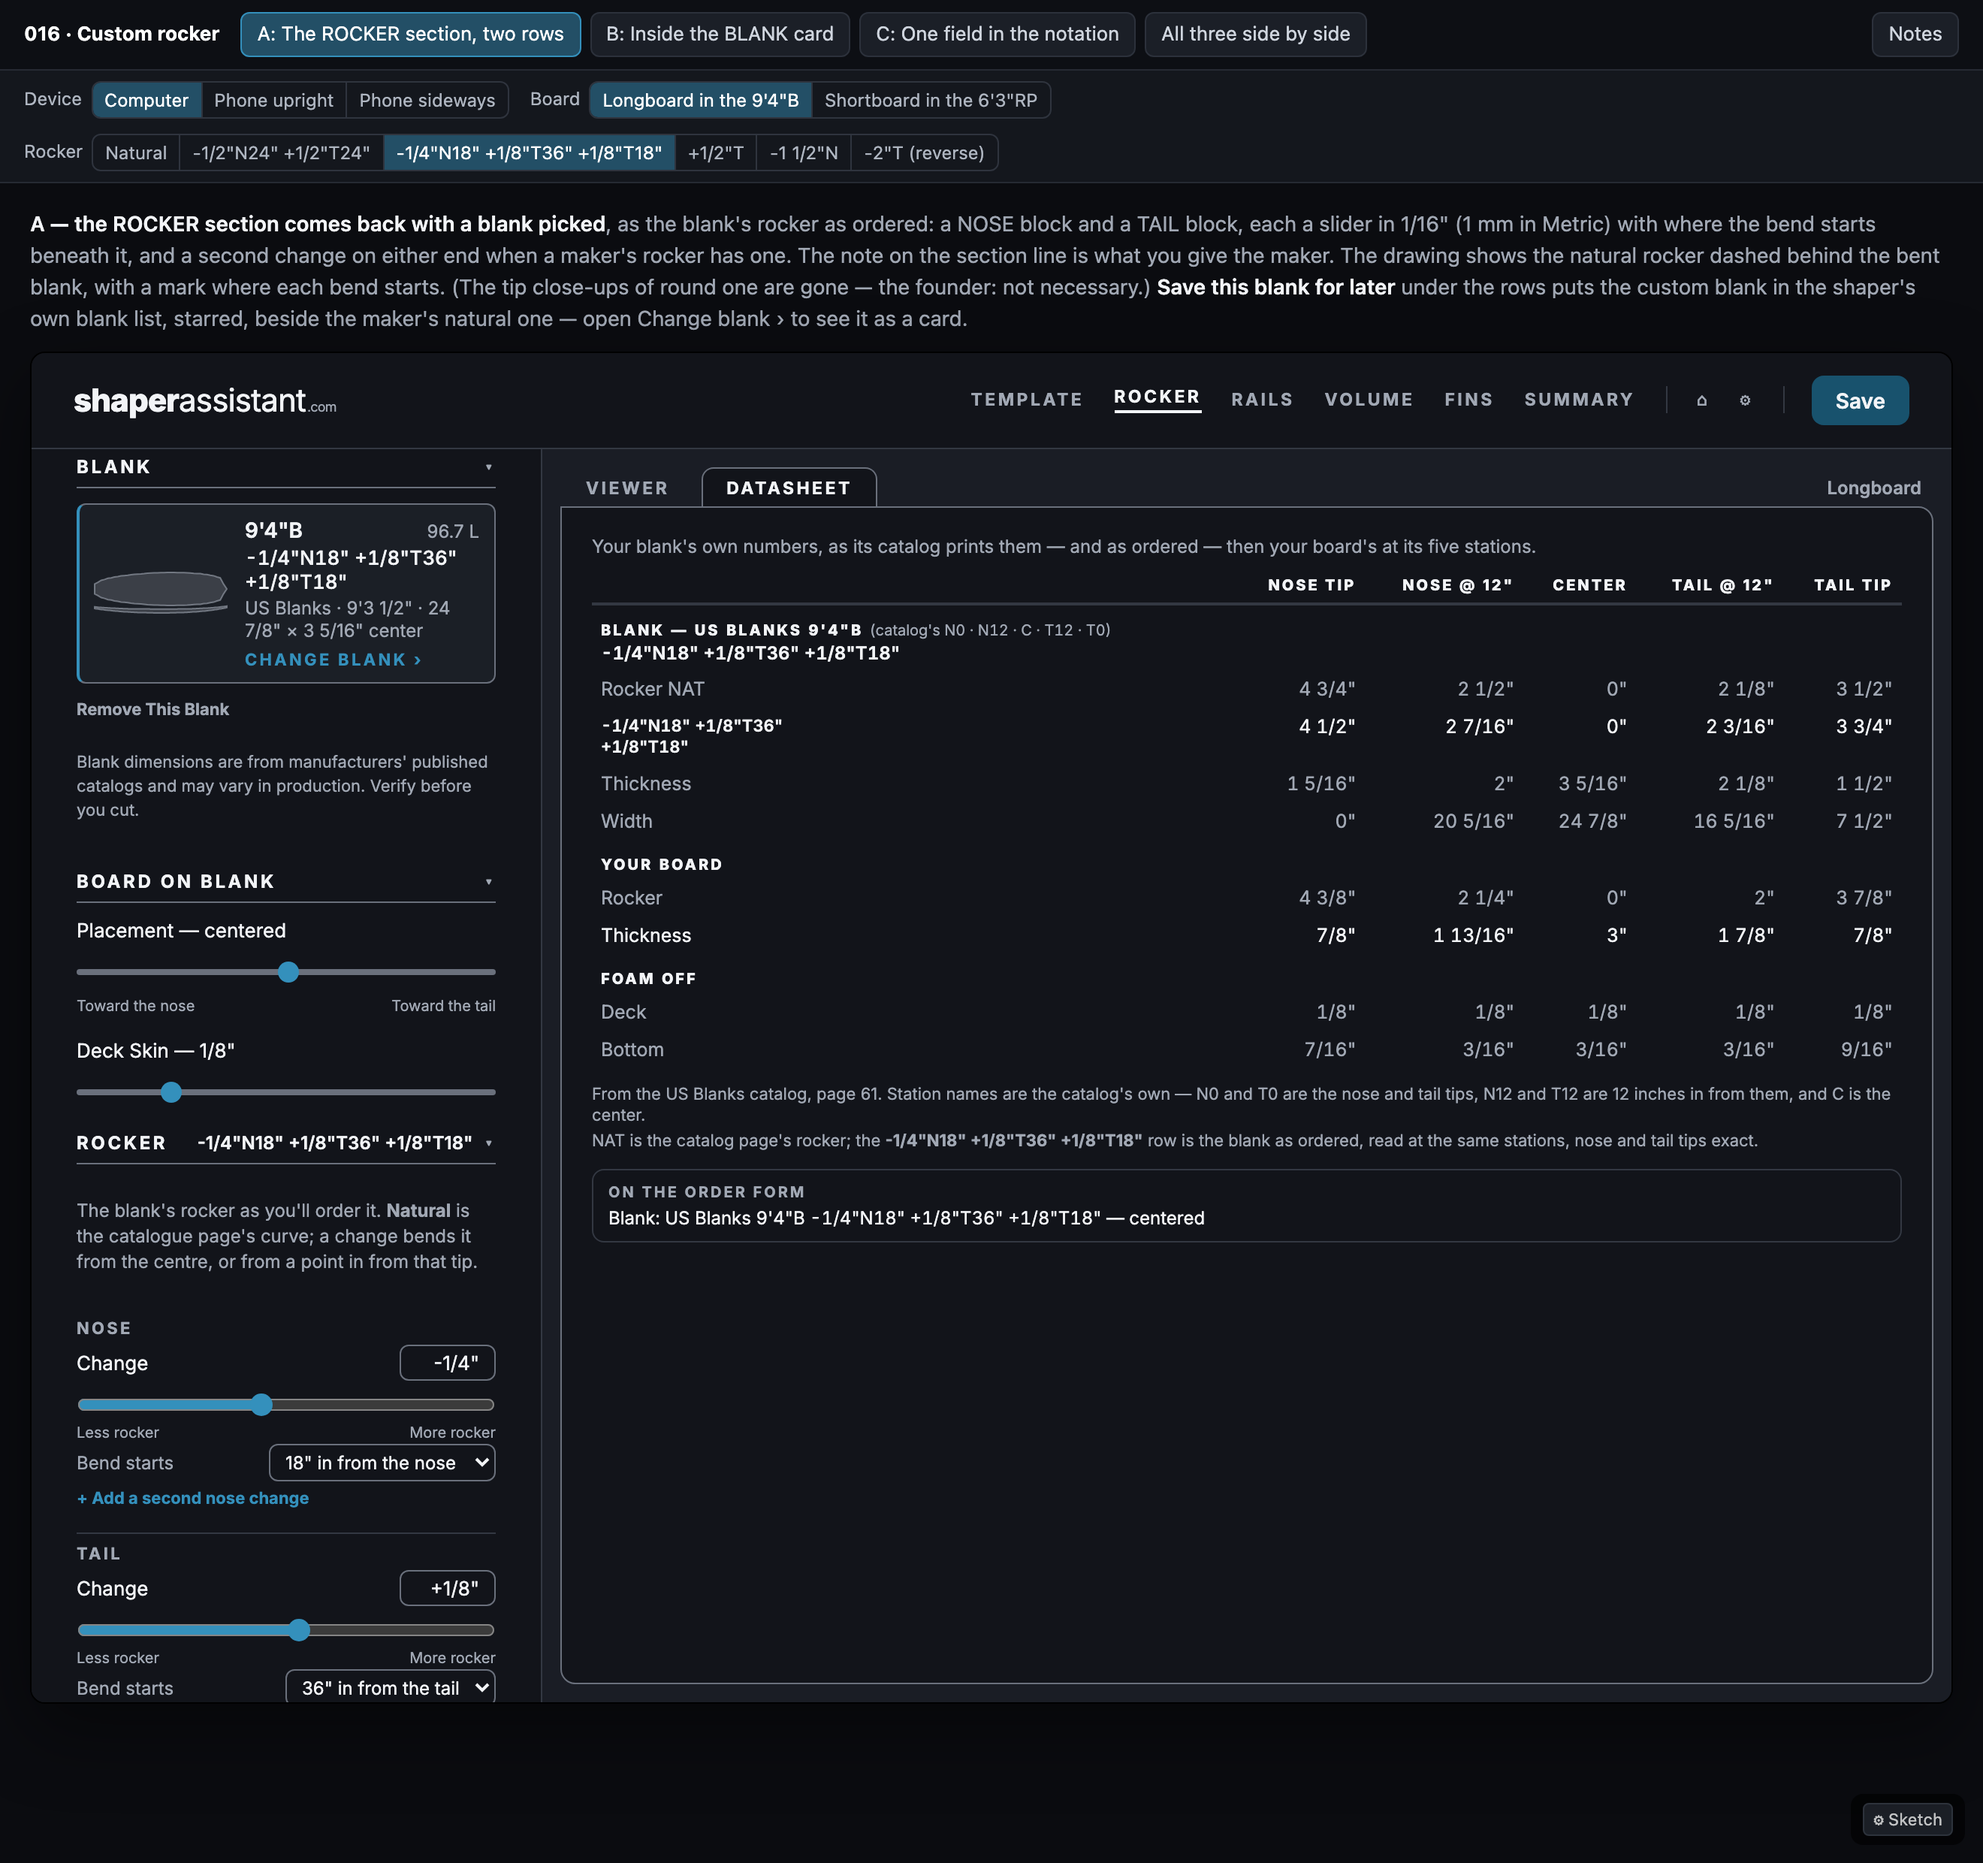
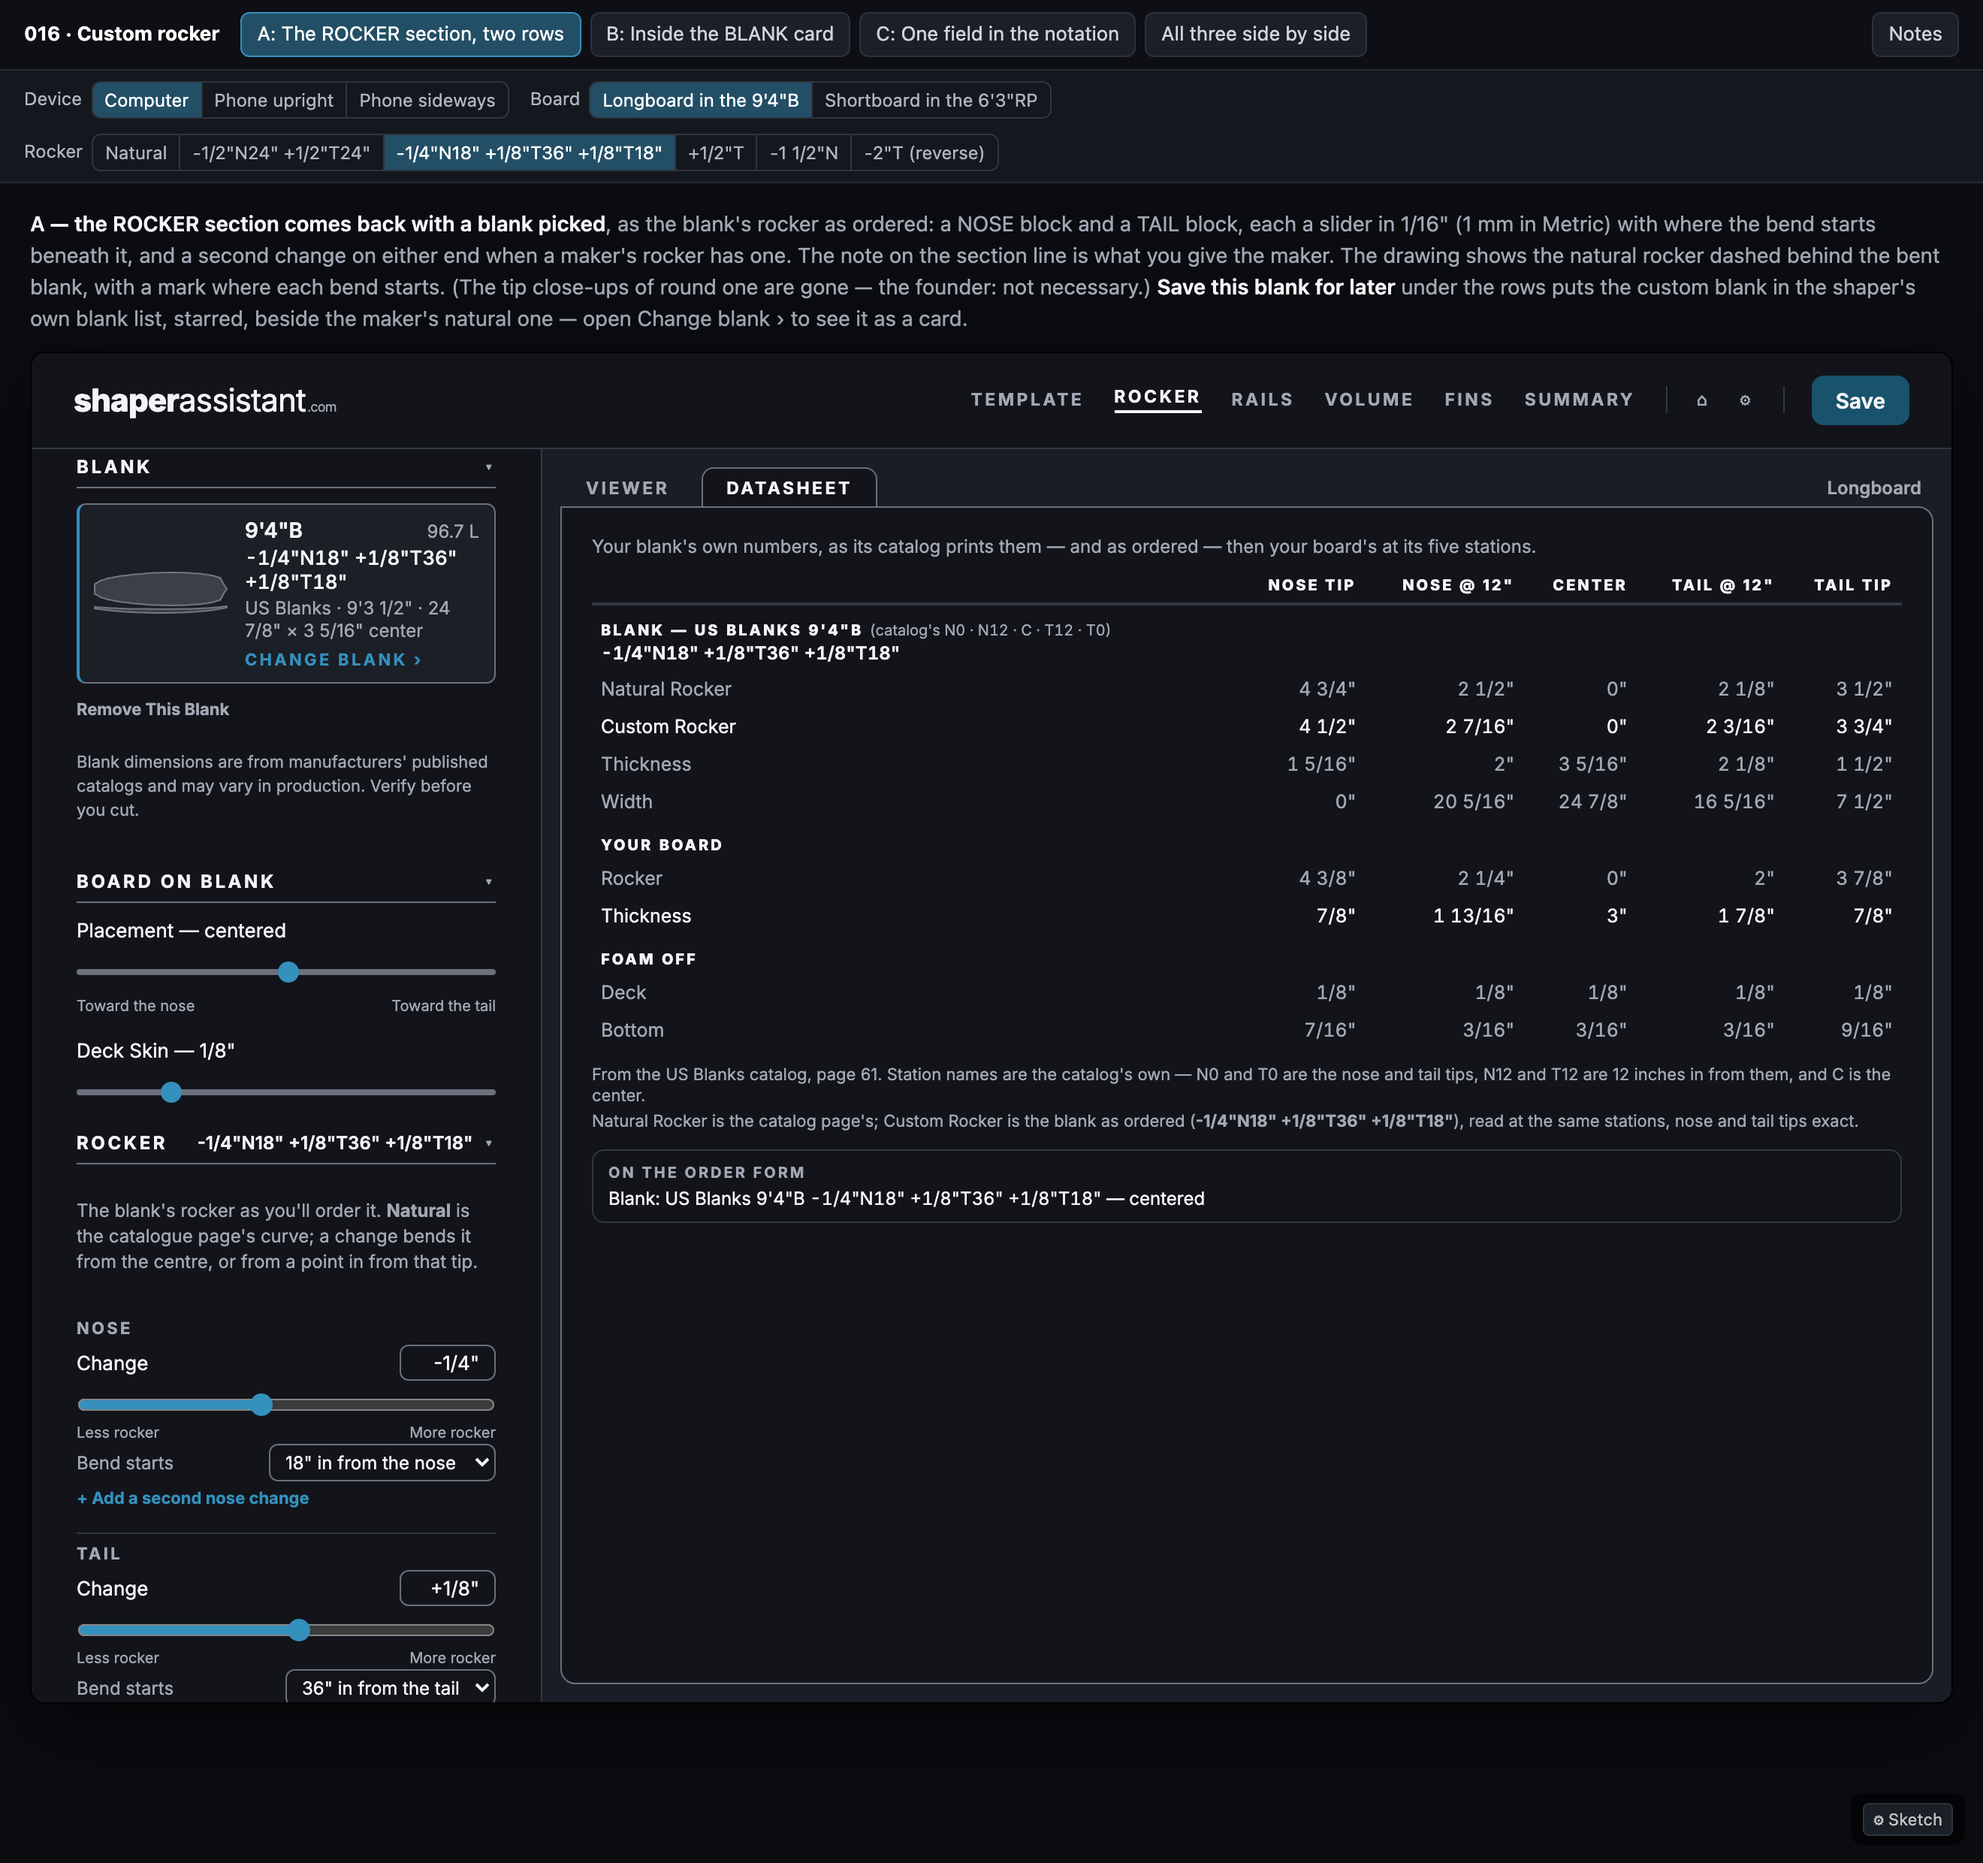
docs(sketch-016): round four — the table rows read Natural Rocker and Custom Rocker
The founder (2026-10-16): the custom row's name is Custom Rocker, and the adjustment is not
repeated in the table because it already sits on the blank's name line. Applied to the picker
cards and the DATASHEET; the plan and the manifest record it. Nothing in the app changed.

diff --git a/.planning/sketches/016-custom-rocker/index.html b/.planning/sketches/016-custom-rocker/index.html
@@ -519,8 +519,8 @@ function datasheet(device, g) {
     <table>
       <tr><th></th>${labels.map((l) => `<th>${l}</th>`).join("")}</tr>
       <tr class="grp"><td colspan="6">Blank — ${esc(b.vendor)} ${esc(b.name)} <span class="cat">(catalog's N0 · N12 · C · T12 · T0)</span><span class="rn2">${esc(note || "Natural")}</span></td></tr>
-      ${row(`Rocker NAT${unit}`, cols.map((key) => { const st = stationOf(key); return !st || st.rockerIn === null ? "—" : mark(st.rockerIn); }), false)}
-      ${custom ? row(`<span class="rnlab">${esc(note)}</span>`, cols.map((key) => { const st = stationOf(key); return !st || st.rockerIn === null ? "—" : mark(g.blankLev(st.xIn)); }), true) : ""}
+      ${row(`Natural Rocker${unit}`, cols.map((key) => { const st = stationOf(key); return !st || st.rockerIn === null ? "—" : mark(st.rockerIn); }), false)}
+      ${custom ? row(`Custom Rocker${unit}`, cols.map((key) => { const st = stationOf(key); return !st || st.rockerIn === null ? "—" : mark(g.blankLev(st.xIn)); }), true) : ""}
       ${row(`Thickness${unit}`, cols.map((k) => pr(b.printed[k].thickness, mark)), false)}
       ${row(`Width${M() ? " (cm)" : ""}`, cols.map((k) => pr(b.printed[k].width, dim)), false)}
       <tr class="grp"><td colspan="6">Your board</td></tr>
@@ -532,7 +532,7 @@ function datasheet(device, g) {
     </table>
     <div class="foot">
       <span>From the ${esc(b.vendor)} catalog, page ${esc(String(b.pdfPage || ""))}. Station names are the catalog's own — N0 and T0 are the nose and tail tips, N12 and T12 are 12 inches in from them, and C is the center.</span>
-      ${custom ? `<span>NAT is the catalog page's rocker; the <b>${esc(note)}</b> row is the blank as ordered, read at the same stations, nose and tail tips exact.${g.lowMoved ? " The low point moved, so every figure reads from the new low point." : ""}</span>` : `<span>NAT is the catalog page's natural rocker.</span>`}
+      ${custom ? `<span>Natural Rocker is the catalog page's; Custom Rocker is the blank as ordered (<b>${esc(note)}</b>), read at the same stations, nose and tail tips exact.${g.lowMoved ? " The low point moved, so every figure reads from the new low point." : ""}</span>` : `<span>Natural Rocker is the catalog page's.</span>`}
     </div>
     <div class="order"><b>On the order form</b><span>Blank: ${esc(b.vendor)} ${esc(b.name)} ${esc(note || "Natural")} — centered</span></div>
   </div>`;
@@ -581,9 +581,9 @@ function blankCard(r, opts) {
     <table class="st"><tr><th></th>${hdr.map((h) => `<th>${h}</th>`).join("")}</tr>
       <tr><td>Width</td>${cols.map((k) => `<td>${pr(b.printed[k].width, dim)}</td>`).join("")}</tr>
       <tr><td>Thick</td>${cols.map((k) => `<td>${pr(b.printed[k].thickness, mark)}</td>`).join("")}</tr>
-      <tr><td>Rocker NAT</td>${cols.map((k) => { const x = st(k); return `<td>${!x || x.rockerIn === null ? "—" : mark(x.rockerIn)}</td>`; }).join("")}</tr>
-      ${custom ? `<tr class="ord"><td><span class="rnlab">${esc(note)}</span></td>${rocker.map((c) => `<td>${c}</td>`).join("")}</tr>` : ""}</table>
-    ${custom ? `<div class="asord">The second row is the rocker as you ordered it — check it on the foam.</div>` : ""}
+      <tr><td>Natural Rocker</td>${cols.map((k) => { const x = st(k); return `<td>${!x || x.rockerIn === null ? "—" : mark(x.rockerIn)}</td>`; }).join("")}</tr>
+      ${custom ? `<tr class="ord"><td>Custom Rocker</td>${rocker.map((c) => `<td>${c}</td>`).join("")}</tr>` : ""}</table>
+    ${custom ? `<div class="asord">Custom Rocker is the blank as you ordered it — check it on the foam.</div>` : ""}
     <button class="link pickbtn" data-act="pick" data-i="${opts.i}">${opts.picked ? "Keep this blank" : "Use this blank"}</button>
   </div>`;
 }
@@ -623,7 +623,7 @@ const NOTES = `<h2>Sketch 016 — Custom rocker on ROCKER</h2>
 <ul><li>Can you set a listed rocker — say <b>-1/4"N18" +1/8"T36" +1/8"T18"</b> — in under a minute, on a phone?</li>
 <li>Does the natural dashed line read as a reference, not a second blank? Are the bend marks enough without words?</li>
 
-<li>Decided (round three): the rocker text sits on its own line under the name, <b>Natural</b> included, everywhere the blank is named; a custom blank's table shows the <b>Rocker NAT</b> row and, under it, a row labelled with the adjustment holding the ordered figures.</li></ul>
+<li>Decided (rounds three and four): the rocker text sits on its own line under the name, <b>Natural</b> included, everywhere the blank is named; a custom blank's table shows a <b>Natural Rocker</b> row and a <b>Custom Rocker</b> row — the adjustment itself is on the name line only.</li></ul>
 <h3>Saving it as a blank (the founder, 2026-10-16)</h3>
 <p>"Save this blank for later" keeps the custom rocker as a blank of the shaper's own — <b>US Blanks 9'4"B -1/4"N18" +1/8"T36" +1/8"T18"</b> — in the PICK A BLANK popup — <b>starred the moment it is saved</b>, so it sits at the top under ★ STARRED (the founder: "which should always be starred when saved") — with the natural 9'4"B still listed. Its station table reads the rocker as ordered. Signed in it is saved on the account; signed out, in this browser.</p>
 <h3>The maths</h3>

diff --git a/.planning/sketches/MANIFEST.md b/.planning/sketches/MANIFEST.md
@@ -98,7 +98,7 @@ wing) with the corner radius and the grab points as a toggle.
 | 012 | blank-round-nose | When a blank prints its nose tip 0 wide, how should its outline reach the tip on ROCKER's top view? | **C — Parabola from the tip** (nothing to set) | viewer, rocker, top-view, blank, geometry |
 | 013 | wings-on-the-outline | How does a wing read on the TEMPLATE outline, and what happens to the tail behind it? | **A — Tail re-drawn to your block** (depth fades to nothing at the tail pod; two wings stack) | viewer, template, outline, wings, fins, geometry, controls |
 | 014 | wings-tab | With wings on a WINGS tab of the TEMPLATE page, where do the wing controls live, and how does the view scale for a stinger? | **B — The window grows with the wing** (sidebar swaps to the wing controls; grab points with Show construction) | template, wings, tabs, controls, sidebar, phone, interaction |
-| 016 | custom-rocker | With a blank picked on ROCKER, how does a shaper set the blank's rocker as ordered from the maker (nose and tail changes in the US Blanks notation, up to two per end), and how do the drawing, the name and the DATASHEET show it? | — (rounds one to three, 2026-10-16; the control still to pick) | rocker, blank, custom-rocker, sidebar, viewer, datasheet, phone, notation |
+| 016 | custom-rocker | With a blank picked on ROCKER, how does a shaper set the blank's rocker as ordered from the maker (nose and tail changes in the US Blanks notation, up to two per end), and how do the drawing, the name and the DATASHEET show it? | — (rounds one to four, 2026-10-16; the control still to pick) | rocker, blank, custom-rocker, sidebar, viewer, datasheet, phone, notation |
 
 ## Decisions These Lock In
 
@@ -193,7 +193,7 @@ wing) with the corner radius and the grab points as a toggle.
 - Custom rocker (016, 2026-10-16): A, B or C for the control; the tip close-ups; the note on its own line or run on
   as one name; the DATASHEET's BLANK Rocker row (custom with natural beneath, two rows, or a footnote). Decided so far
   (the founder, 2026-10-16): the US Blanks notation app-wide, typed changes first, the note in inches in Metric,
-  steppers with room for a two-point change; a custom blank can be saved for later as the shaper's own blank, beside the natural one, starred on save (round two); the rocker text on its own line under every blank's name, `Natural` included, no tip close-ups, and a Rocker NAT row with the ordered figures on a row labelled by the adjustment (round three). Still open: A, B or C for the control. Research: `.planning/spikes/CUSTOM-ROCKER-PLAN.md`.
+  steppers with room for a two-point change; a custom blank can be saved for later as the shaper's own blank, beside the natural one, starred on save (round two); the rocker text on its own line under every blank's name, `Natural` included, no tip close-ups, and a Natural Rocker row over a Custom Rocker row, the adjustment written once on the name line (rounds three and four). Still open: A, B or C for the control. Research: `.planning/spikes/CUSTOM-ROCKER-PLAN.md`.
 
 - Phone chrome (007/008): ~~does a phone held sideways keep its screens list in ☰ or switch to the tiles
   too?~~ Answered: tiles too (the founder, 2026-10-03, "use on all screens that condense the top bar into a

diff --git a/.planning/sketches/016-custom-rocker/README.md b/.planning/sketches/016-custom-rocker/README.md
@@ -79,9 +79,12 @@ Open Change blank › in the sketch to see the popup (`pictures/a-computer-picke
 - *"A custom rocker card should show the natural rocker and below it the new values on another line. I don't wanna
   waste space on the title, but the user clearly needs to know which one is which. I think we could write the word
   natural, or NAT for natural and then the word rocker or the actual value with [the] adjustment."* So a card's table
-  (and the DATASHEET's BLANK block) has a **Rocker NAT** row with the catalogue's figures and, on a custom blank, a
-  second row labelled with the adjustment itself (`-1/4"N18" +1/8"T36" +1/8"T18"`) holding the ordered figures.
-  The title line stays the blank's name alone.
+  (and the DATASHEET's BLANK block) has a natural row with the catalogue's figures and, on a custom blank, a second
+  row holding the ordered figures. The title line stays the blank's name alone.
+
+**Round four (the founder, 2026-10-16):** *"The data table name can be Custom Rocker. There's no need to repeat all of
+the dimensions since that is the appended name line of the blank."* So the two rows read **Natural Rocker** and
+**Custom Rocker** (NAT is an accepted short form), and the adjustment is written once, on the name line.
 
 The maths is spike 002's even bend on the app's own curves: the two boards' natural side profiles were dumped by the
 app's own code (`designSideProfile`, `prepareBlank`), and each change adds *amount × u²* past its bend point. A change

diff --git a/.planning/spikes/CUSTOM-ROCKER-PLAN.md b/.planning/spikes/CUSTOM-ROCKER-PLAN.md
@@ -140,8 +140,10 @@ deploy that reads it.
    the same way, the name then its rocker on its own line, `Natural` included (`9'4"B` / `Natural`; `9'4"B` /
    `-1/4"N18" +1/8"T36" +1/8"T18"`), on the BLANK button, the picker's cards, the viewer's caption, the DATASHEET's
    group label and the order form (`US Blanks 9'4"B Natural — centered`). A blank's station table — a picker card and
-   the DATASHEET's BLANK block — has a **Rocker NAT** row with the catalogue's printed figures and, on a custom blank,
-   a second row labelled with the adjustment holding the ordered figures (nose and tail tips exact). The screen tile
+   the DATASHEET's BLANK block — has a **Natural Rocker** row with the catalogue's printed figures and, on a custom
+   blank, a **Custom Rocker** row holding the ordered figures (nose and tail tips exact). The adjustment itself is
+   written once, on the name line (the founder, round four: "There's no need to repeat all of the dimensions since
+   that is the appended name line of the blank"; "NAT" for Natural is an accepted short form). The screen tile
    (`On a 9'4"B`) is the one place the rocker text is left off for room — to confirm.
 5. **The note in Metric stays in inches** — it is the maker's order code, like the blank's name — while every figure
    drawn, tabled or stepped follows Imperial/Metric (marks in whole mm; the stepper steps 1 mm in Metric and the
